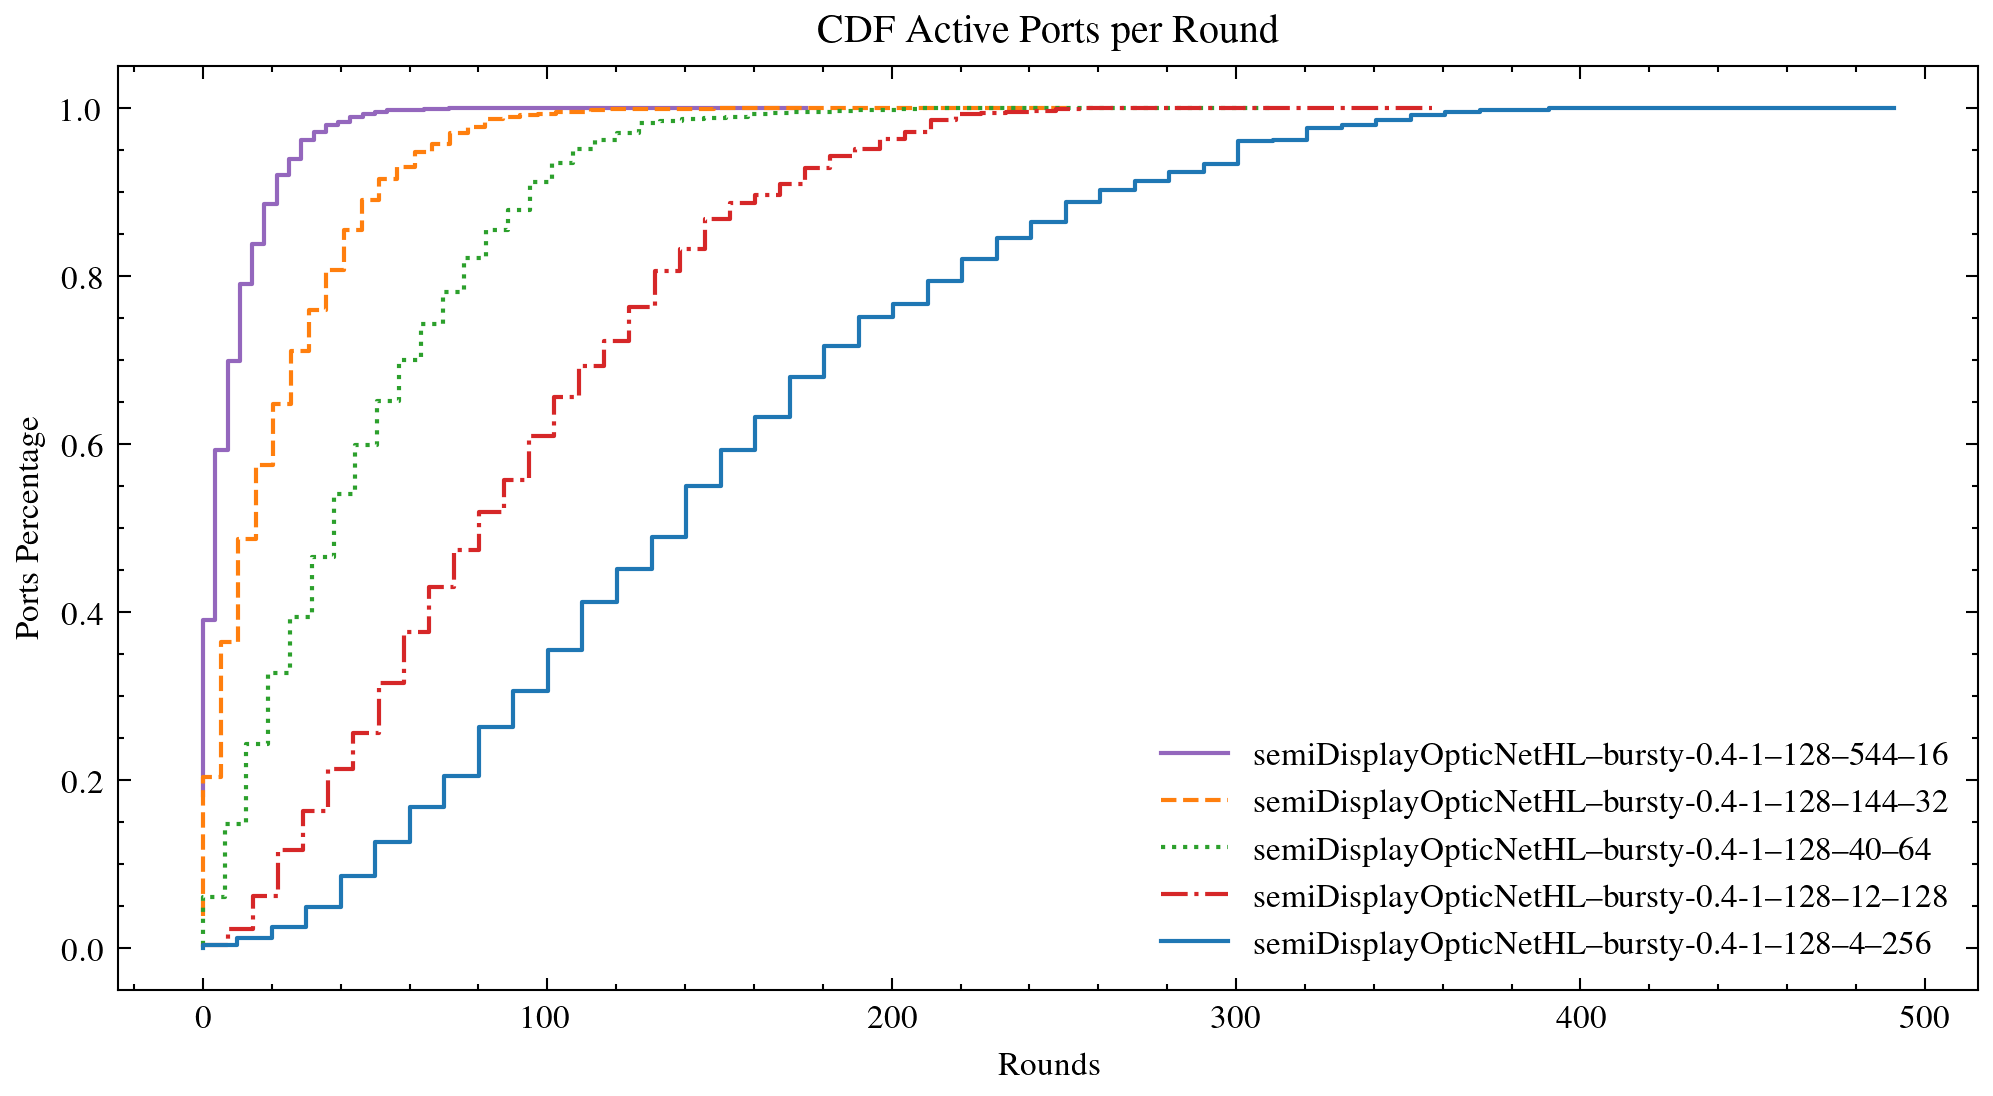
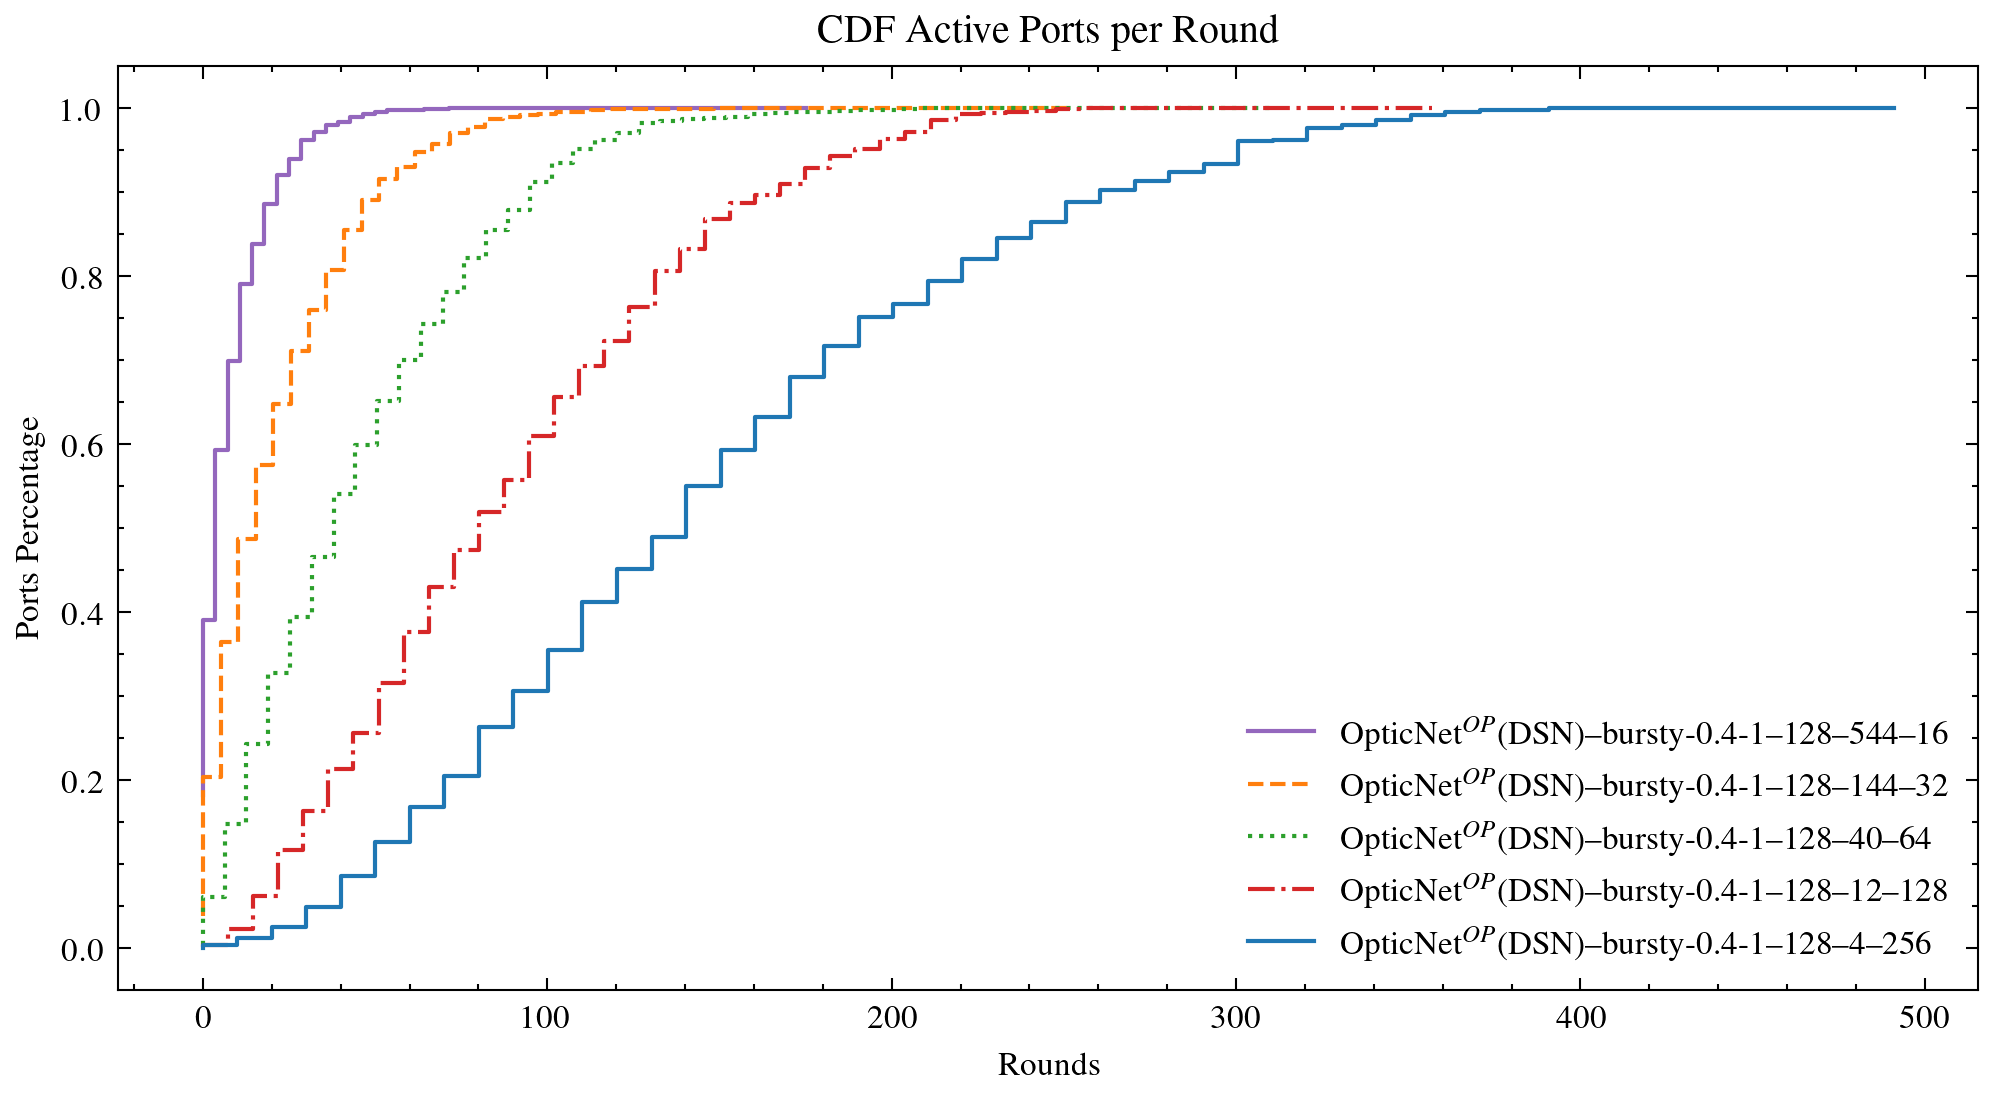
corrected project name and automated plot for all datasets

Changed region(s): [[0.6222, 0.6515, 0.9955, 0.8686]]

diff --git a/plotter/plot_script.py b/plotter/plot_script.py
@@ -27,214 +27,211 @@ projects = [ #"semiDisplayOpticNet"
 "semiDisplayOpticNetHL"
 #,"SplayOpticNet"
 ]
-switch_sizes = [ 16,32,64,128,256 ]
-num_simulations = 30
-datasets = [ "bursty-0.4-1" ]
-num_nodes = [ 128 ]
-mus = [ 4 ]
 
-
-'''
-num_nodes = [ 367 ]
-datasets = [ "facebookDS" ]
-switch_sizes = [ 16, 734 ]
-num_simulations = 1
-
-num_nodes = [ 1024 ] # Fixed number of nodes
-datasets = [
-    "exact_boxlib_cns_nospec_large"
+num_datasets = 7
+switch_sizes = [ [16,32,64,128,256],[16,32,92,162,734],[114,128,256,456,2048],[128,256,2048],[16,32,64,288],[16,32,256],[16,32,256] ]
+num_simulations = [ 30,1,1,1,1,1,30 ]
+datasets = [ 
+["bursty-0.4-1"], 
+["facebookDS"], 
+["hpcDS-exact_boxlib_cns_nospec_large"], 
+["normalDS-0.2","normalDS-0.8","normalDS-1.6","normalDS-3.2","normalDS-6.4"],
+["pfabDS-trace_0_5", "pfabDS-trace_0_8"],
+["skewed-1-0.4"],
+["tor"] 
 ]
-switch_sizes = [ 256, 2048 ]
-num_simulations = 1
-'''
+num_nodes = [ [128],[367],[1024],[1024],[144],[128],[128]]
+mus = [ [4],[4],[4],[4],[4],[4],[4] ]
 
-if not os.path.exists(f"output/{sys.argv[1]}"):
-    os.makedirs(f"output/{sys.argv[1]}")
-
-
-# In[4]:
-
-
-tor_data = []
-
+output_folder = [ 
+"bursty-0.4-1", 
+"facebookDS", 
+"hpcDS-exact_boxlib_cns_nospec_large", 
+"normalDS",
+"pfabDS-trace",
+"skewed-1-0.4",
+"tor"
+]
 
 # In[5]:
+for i in range(num_datasets):
+    if not os.path.exists(f"output/{output_folder[i]}"):
+        os.makedirs(f"output/{output_folder[i]}")
 
-for project in projects:
-    for dataset in datasets:
-        for num_node in num_nodes:
-            for switch_size in switch_sizes:
-                for mu in mus:
-                    tor_data.append(
-                        DataReader.DataReader(
-                            dataset, project, num_node, switch_size, num_simulations, mu
+    tor_data = []
+
+    for project in projects:
+        for dataset in datasets[i]:
+            for num_node in num_nodes[i]:
+                for switch_size in switch_sizes[i]:
+                    for mu in mus[i]:
+                        tor_data.append(
+                            DataReader.DataReader(
+                                dataset, project, num_node, switch_size, num_simulations[i], mu
+                            )
                         )
-                    )
 
-tor_data = np.array(tor_data)
+    tor_data = np.array(tor_data)
 
-# In[7]:
+    # In[7]:
 
+    slc = [ i for i in range(len(tor_data)) ]
 
-slc = [ i for i in range(len(tor_data)) ]
+    # In[8]:
 
+    print(tor_data[slc])
 
-# In[8]:
+    # Collect unique values of data.switch_size
+    unique_switch_sizes = set(data.switch_size for data in tor_data[slc])
 
+    # Define a list of unique colors
+    colors = plt.cm.tab10.colors[:len(unique_switch_sizes)]  # Using a predefined colormap for colors
 
-print(tor_data[slc])
+    # Create a dictionary mapping each unique switch_size to a unique color
+    color_dict = dict(zip(unique_switch_sizes, colors))
 
-# Collect unique values of data.switch_size
-unique_switch_sizes = set(data.switch_size for data in tor_data[slc])
+    # In[9]:
 
-# Define a list of unique colors
-colors = plt.cm.tab10.colors[:len(unique_switch_sizes)]  # Using a predefined colormap for colors
+    fig, ax = plt.subplots(figsize=(7, 4))
+    ax.set_ylabel("Work 10**4")
+    ax.set_xlabel("Project")
 
-# Create a dictionary mapping each unique switch_size to a unique color
-color_dict = dict(zip(unique_switch_sizes, colors))
+    Plotter.Plotter.total_work_link_updates(tor_data[slc], normalize=1e4, ax=ax)
 
-# In[9]:
+    ax.plot()
+    fig.savefig(f"output/{output_folder[i]}/total_work.png", dpi=300, transparent=False)
+    plt.close(fig)
 
-fig, ax = plt.subplots(figsize=(7, 4))
-ax.set_ylabel("Work 10**4")
-ax.set_xlabel("Project")
+    print("finish")
 
-Plotter.Plotter.total_work_link_updates(tor_data[slc], normalize=1e4, ax=ax)
-
-ax.plot()
-fig.savefig(f"output/{sys.argv[1]}/total_work.png", dpi=300, transparent=False)
-plt.close(fig)
-
-print("finish")
-
-# In[10]:
+    # In[10]:
 
 
-fig, ax = plt.subplots(figsize=(8, 4))
-ax.set_title("CDF \% of active ports for switches")
-ax.set_xlabel("Ports Percentage")
-ax.set_ylabel("Switch Percentage")
+    fig, ax = plt.subplots(figsize=(8, 4))
+    ax.set_title("CDF \% of active ports for switches")
+    ax.set_xlabel("Ports Percentage")
+    ax.set_ylabel("Switch Percentage")
 
-for data in tor_data[slc]:
-    color = color_dict[data.switch_size]  # Get color based on switch_size
-    Plotter.Plotter.cdf_switches_active_ports(data.cdf_switch_active_ports(), ax, color=color)
+    for data in tor_data[slc]:
+        color = color_dict[data.switch_size]  # Get color based on switch_size
+        Plotter.Plotter.cdf_switches_active_ports(data.cdf_switch_active_ports(), ax, color=color)
 
-ax.legend([
-    f"{data.project}--{data.dataset}--{data.num_nodes}--{data.num_switches}--{data.switch_size}"
-    for data in tor_data[slc]
-], loc="best", frameon=False)
+    ax.legend([
+        f"{Plotter.Plotter.get_project_name(data)}--{data.dataset}--{data.num_nodes}--{data.num_switches}--{data.switch_size}"
+        for data in tor_data[slc]
+    ], loc="best", frameon=False)
 
-ax.plot()
-fig.savefig(f"output/{sys.argv[1]}/switches_active_ports.png", dpi=300, transparent=False)
-plt.close(fig)
-print("finish")
+    ax.plot()
+    fig.savefig(f"output/{output_folder[i]}/switches_active_ports.png", dpi=300, transparent=False)
+    plt.close(fig)
+    print("finish")
 
-# In[11]:
-
-
-fig, ax = plt.subplots(figsize=(8, 4))
-ax.set_title("CDF Active Ports per Round")
-ax.set_xlabel("Rounds")
-ax.set_ylabel("Ports Percentage")
-
-for data in tor_data[slc]:
-    color = color_dict[data.switch_size]  # Get color based on switch_size
-    Plotter.Plotter.cdf_active_ports(data.cdf_active_ports(), ax, color=color)
-
-ax.legend([
-    f"{data.project}--{data.dataset}--{data.num_nodes}--{data.num_switches}--{data.switch_size}"
-    for data in tor_data[slc]
-], loc="best", frameon=False)
-
-ax.plot()
-fig.savefig(f"output/{sys.argv[1]}/active_ports.png", dpi=300, transparent=False)
-plt.close(fig)
-print("finish")
-
-# In[ ]:
+    # In[11]:
 
 
-fig, ax = plt.subplots(figsize=(8, 4))
-ax.set_title("CDF Routings per Node")
-ax.set_xlabel("Routing")
-ax.set_ylabel("Node Percentage")
+    fig, ax = plt.subplots(figsize=(8, 4))
+    ax.set_title("CDF Active Ports per Round")
+    ax.set_xlabel("Rounds")
+    ax.set_ylabel("Ports Percentage")
 
-for data in tor_data[slc]:
-    color = color_dict[data.switch_size]  # Get color based on switch_size
-    Plotter.Plotter.cdf_routings(data.cdf_node_routings(), ax, color=color)
+    for data in tor_data[slc]:
+        color = color_dict[data.switch_size]  # Get color based on switch_size
+        Plotter.Plotter.cdf_active_ports(data.cdf_active_ports(), ax, color=color)
 
-ax.legend([
-    f"{data.project}--{data.dataset}--{data.num_nodes}--{data.num_switches}--{data.switch_size}"
-    for data in tor_data[slc]
-], loc="best", frameon=False)
+    ax.legend([
+        f"{Plotter.Plotter.get_project_name(data)}--{data.dataset}--{data.num_nodes}--{data.num_switches}--{data.switch_size}"
+        for data in tor_data[slc]
+    ], loc="best", frameon=False)
 
-ax.plot()
-fig.savefig(f"output/{sys.argv[1]}/node_routings.png", dpi=300, transparent=False)
-plt.close(fig)
-print("finish")
+    ax.plot()
+    fig.savefig(f"output/{output_folder[i]}/active_ports.png", dpi=300, transparent=False)
+    plt.close(fig)
+    print("finish")
 
-# In[ ]:
-
-
-fig, ax = plt.subplots(figsize=(8, 4))
-ax.set_title("CDF Alterations per Node")
-ax.set_xlabel("Alterations")
-ax.set_ylabel("Node Percentage")
-
-for data in tor_data[slc]:
-    color = color_dict[data.switch_size]  # Get color based on switch_size
-    Plotter.Plotter.cdf_alterations(data.cdf_node_alterations(), ax, color=color)
-
-ax.legend([
-    f"{data.project}--{data.dataset}--{data.num_nodes}--{data.num_switches}--{data.switch_size}"
-    for data in tor_data[slc]
-], loc="best", frameon=False)
-
-ax.plot()
-fig.savefig(f"output/{sys.argv[1]}/node_alterations.png", dpi=300, transparent=False)
-plt.close(fig)
-print("finish")
-
-# In[ ]:
+    # In[ ]:
 
 
-fig, ax = plt.subplots(figsize=(8, 4))
-ax.set_title("CDF Routings per Switch")
-ax.set_xlabel("Routing")
-ax.set_ylabel("Switches Percentage")
+    fig, ax = plt.subplots(figsize=(8, 4))
+    ax.set_title("CDF Routings per Node")
+    ax.set_xlabel("Routing")
+    ax.set_ylabel("Node Percentage")
 
-for data in tor_data[slc]:
-    color = color_dict[data.switch_size]  # Get color based on switch_size
-    Plotter.Plotter.cdf_routings(data.cdf_switch_routings(), ax, color=color)
+    for data in tor_data[slc]:
+        color = color_dict[data.switch_size]  # Get color based on switch_size
+        Plotter.Plotter.cdf_routings(data.cdf_node_routings(), ax, color=color)
 
-ax.legend([
-    f"{data.project}--{data.dataset}--{data.num_nodes}--{data.num_switches}--{data.switch_size}"
-    for data in tor_data[slc]
-], loc="best", frameon=False)
+    ax.legend([
+        f"{Plotter.Plotter.get_project_name(data)}--{data.dataset}--{data.num_nodes}--{data.num_switches}--{data.switch_size}"
+        for data in tor_data[slc]
+    ], loc="best", frameon=False)
 
-ax.plot()
-fig.savefig(f"output/{sys.argv[1]}/switch_routings.png", dpi=300, transparent=False)
-plt.close(fig)
-print("finish")
+    ax.plot()
+    fig.savefig(f"output/{output_folder[i]}/node_routings.png", dpi=300, transparent=False)
+    plt.close(fig)
+    print("finish")
 
-# In[ ]:
+    # In[ ]:
 
 
-fig, ax = plt.subplots(figsize=(8, 4))
-ax.set_title("CDF Alterations per Switch")
-ax.set_xlabel("Alterations")
-ax.set_ylabel("Switches Percentage")
+    fig, ax = plt.subplots(figsize=(8, 4))
+    ax.set_title("CDF Alterations per Node")
+    ax.set_xlabel("Alterations")
+    ax.set_ylabel("Node Percentage")
 
-for data in tor_data[slc]:
-    color = color_dict[data.switch_size]  # Get color based on switch_size
-    Plotter.Plotter.cdf_alterations(data.cdf_switch_alterations(), ax, color=color)
+    for data in tor_data[slc]:
+        color = color_dict[data.switch_size]  # Get color based on switch_size
+        Plotter.Plotter.cdf_alterations(data.cdf_node_alterations(), ax, color=color)
 
-ax.legend([
-    f"{data.project}--{data.dataset}--{data.num_nodes}--{data.num_switches}--{data.switch_size}"
-    for data in tor_data[slc]
-], loc="best", frameon=False)
+    ax.legend([
+        f"{Plotter.Plotter.get_project_name(data)}--{data.dataset}--{data.num_nodes}--{data.num_switches}--{data.switch_size}"
+        for data in tor_data[slc]
+    ], loc="best", frameon=False)
 
-ax.plot()
-fig.savefig(f"output/{sys.argv[1]}/switch_alterations.png", dpi=300, transparent=False)
-plt.close(fig)
-print("finish")
+    ax.plot()
+    fig.savefig(f"output/{output_folder[i]}/node_alterations.png", dpi=300, transparent=False)
+    plt.close(fig)
+    print("finish")
+
+    # In[ ]:
+
+
+    fig, ax = plt.subplots(figsize=(8, 4))
+    ax.set_title("CDF Routings per Switch")
+    ax.set_xlabel("Routing")
+    ax.set_ylabel("Switches Percentage")
+
+    for data in tor_data[slc]:
+        color = color_dict[data.switch_size]  # Get color based on switch_size
+        Plotter.Plotter.cdf_routings(data.cdf_switch_routings(), ax, color=color)
+
+    ax.legend([
+        f"{Plotter.Plotter.get_project_name(data)}--{data.dataset}--{data.num_nodes}--{data.num_switches}--{data.switch_size}"
+        for data in tor_data[slc]
+    ], loc="best", frameon=False)
+
+    ax.plot()
+    fig.savefig(f"output/{output_folder[i]}/switch_routings.png", dpi=300, transparent=False)
+    plt.close(fig)
+    print("finish")
+
+    # In[ ]:
+
+
+    fig, ax = plt.subplots(figsize=(8, 4))
+    ax.set_title("CDF Alterations per Switch")
+    ax.set_xlabel("Alterations")
+    ax.set_ylabel("Switches Percentage")
+
+    for data in tor_data[slc]:
+        color = color_dict[data.switch_size]  # Get color based on switch_size
+        Plotter.Plotter.cdf_alterations(data.cdf_switch_alterations(), ax, color=color)
+
+    ax.legend([
+        f"{Plotter.Plotter.get_project_name(data)}--{data.dataset}--{data.num_nodes}--{data.num_switches}--{data.switch_size}"
+        for data in tor_data[slc]
+    ], loc="best", frameon=False)
+
+    ax.plot()
+    fig.savefig(f"output/{output_folder[i]}/switch_alterations.png", dpi=300, transparent=False)
+    plt.close(fig)
+    print("finish")

diff --git a/plotter/Plotter.py b/plotter/Plotter.py
@@ -10,7 +10,7 @@ abbr: dict[str, str] = {
     "cbOptNet": "CBN",
     "displayOpticNet": "ODSN",
     "semiDisplayOpticNet": "DSN",
-    "semiDisplayOpticNetHL" : "OP",
+    "semiDisplayOpticNetHL" : "DSN",
     "SplayOpticNet": "SN"
 }
 
@@ -19,7 +19,7 @@ class Plotter:
     @classmethod
     def get_project_name (cls, data) -> str:
         project = abbr[data.project]
-        if project == "OP":
+        if data.project == "semiDisplayOpticNetHL":
             return "OpticNet$^{OP}$" + f"({project})"
         else:
             return f"OpticNet({project})"
